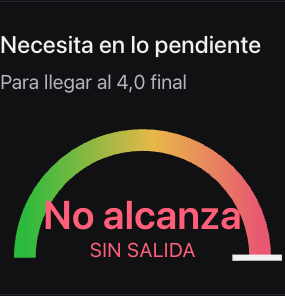
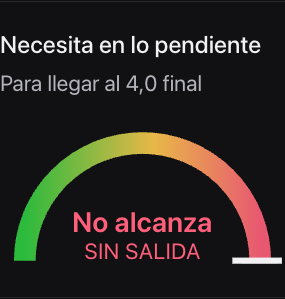
Mantiene legible el estado largo del medidor

diff --git a/styles.css b/styles.css
@@ -3731,8 +3731,8 @@ input.eval-row-input{border-radius:7px;background:var(--bg2);font-weight:550;}
 .alumnos-editorial .panel-alumnos-buscar{margin:16px 0 8px;}
 .alumnos-editorial .panel-alumnos-buscar input{font-family:var(--font-ui);font-size:1rem;background:var(--card);}
 .alumnos-editorial .panel-alumnos-exportar{color:var(--fg2);font-size:.875rem;text-decoration:underline;text-underline-offset:3px;}
-.alumnos-editorial .panel-alumnos-regresar{display:inline-flex;align-items:center;gap:8px;color:var(--fg2);font-size:.875rem;}
-.alumnos-editorial .panel-alumnos-regresar span{font-size:1.5rem;line-height:1;}
+.panel-alumnos-ficha .panel-alumnos-regresar{display:inline-flex;align-items:center;gap:8px;color:var(--fg2);font-size:.875rem;}
+.panel-alumnos-ficha .panel-alumnos-regresar span{font-size:1.5rem;line-height:1;}
 .alumnos-editorial .panel-alumnos-compara{max-width:30rem;margin:0 0 24px;}
 .alumnos-editorial .panel-alumnos-compara button{padding:10px 12px;line-height:1.4;}
 .alumnos-editorial .panel-alumnos-ficha h2{font-size:1.5rem;letter-spacing:-.025em;line-height:1.3;}
@@ -4248,8 +4248,8 @@ input.calc-paso-otro[aria-invalid="true"]{border-color:var(--red);}
 #screen-alumnos .pe-cabecera-nombre{display:block;font-size:1.5rem;font-weight:620;line-height:1.25;overflow-wrap:anywhere;}
 .pe-cabecera-sub[hidden]{display:none;}
 .pe-cabecera-sub{display:block;font-family:var(--font-ui);font-size:.75rem;font-weight:400;letter-spacing:0;line-height:1.5;color:var(--fg2);margin:5px 0 0;}
-.alumnos-editorial .panel-alumnos-regresar{display:inline-flex;align-items:center;gap:8px;min-width:44px;min-height:44px;padding:10px 0;border:0;background:transparent;color:var(--fg2);border-radius:4px;box-shadow:none;}
-.alumnos-editorial .panel-alumnos-regresar:hover{color:var(--fg);}
+.panel-alumnos-ficha .panel-alumnos-regresar{display:inline-flex;align-items:center;gap:8px;min-width:44px;min-height:44px;padding:10px 0;border:0;background:transparent;color:var(--fg2);border-radius:4px;box-shadow:none;}
+.panel-alumnos-ficha .panel-alumnos-regresar:hover{color:var(--fg);}
 .pe-ficha .pe-ramos{gap:24px;margin:4px 0 0;border-bottom:1px solid var(--border);}
 .pe-ficha .pe-ramos button{padding:12px 0;border:0;border-bottom:2px solid transparent;border-radius:0;background:transparent;color:var(--fg2);font-weight:500;overflow-wrap:anywhere;text-align:left;}
 .pe-ficha .pe-ramos button[aria-pressed="true"]{color:var(--fg);border-bottom-color:var(--fg);background:transparent;font-weight:600;}
@@ -4269,8 +4269,8 @@ input.calc-paso-otro[aria-invalid="true"]{border-color:var(--red);}
 .pe-grupo button{border:0;background:transparent;color:var(--fg2);font:inherit;font-size:.75rem;min-width:64px;min-height:44px;padding:8px 16px;border-radius:22px;cursor:pointer;}
 .pe-grupo button[aria-pressed="true"]{background:var(--muted);color:var(--fg);font-weight:600;}
 .pe-ficha button:disabled{opacity:.5;cursor:wait;}
-.pe-ficha button:active,.alumnos-editorial .panel-alumnos-regresar:active{background:var(--muted);}
-.pe-ficha button:focus-visible,.alumnos-editorial .panel-alumnos-regresar:focus-visible{outline:2px solid var(--fg);outline-offset:3px;}
+.pe-ficha button:active,.panel-alumnos-ficha .panel-alumnos-regresar:active{background:var(--muted);}
+.pe-ficha button:focus-visible,.panel-alumnos-ficha .panel-alumnos-regresar:focus-visible{outline:2px solid var(--fg);outline-offset:3px;}
 .pe-ficha .pe-evolucion{--primary:var(--pe-acento);}
 .pe-ficha .pe-evolucion .evolucion-trazado{height:260px;}
 .pe-ficha .evolucion-eje{color:var(--fg2);opacity:1;}
@@ -4305,6 +4305,7 @@ input.calc-paso-otro[aria-invalid="true"]{border-color:var(--red);}
 .pe-necesaria .medidor-nota{display:block;width:100%;max-width:none;height:auto;}
 .pe-medidor-cifra{position:absolute;inset:0;display:flex;flex-direction:column;justify-content:flex-end;align-items:center;padding-bottom:3%;text-align:center;}
 .pe-medidor-cifra strong{font-size:1.25rem;font-weight:600;line-height:1.05;max-width:72%;}
+.pe-medidor-cifra strong.pe-meta-imposible{font-size:.875rem;}
 .pe-medidor-cifra small{font-size:.625rem;line-height:1.15;letter-spacing:.02em;text-transform:uppercase;margin-top:3px;max-width:78%;}
 .pe-peso{padding-top:24px;}
 .pe-peso>div:first-child{display:flex;justify-content:space-between;align-items:baseline;gap:12px;margin-bottom:14px;}

diff --git a/src/marketplace/alumno-editorial.js b/src/marketplace/alumno-editorial.js
@@ -1,4 +1,4 @@
-// Ficha del profesor: presenta las notas compartidas con el mismo motor.
+// Ficha del alumno que consulta el profesor: notas compartidas con el mismo motor.
 function referenciaEvaluacionPrivada(ramo,nota,comp){
   if(!comp||comp.sinSeccion)return null;
   const c=(ramo.categorias||[]).find(c=>(c.notas||[]).some(n=>n.id===nota.id));
@@ -80,7 +80,7 @@ function ramoAlumnoEditorialHTML(al,r,comp,compUltima,seccionUltima,ahora){
         ${grafico||`<p class="pe-sin-grafico" role="status">${ref===null?esc(sinDatos):'Faltan evaluaciones comparables con fecha para mostrar la evolución.'}</p>`}
       </section></section><aside class="pe-contexto"><h3>Este ramo</h3><p class="pe-contexto-sub">${esc(r.sigla||r.nombre)} · ${Number.isInteger(r.seccion)?'Sección '+esc(r.seccion):'Sin sección declarada'}</p>
       <div data-pe-ultima-wrap>${barraUltimaPrivadaHTML(ramo,compUltima,seccionUltima)}</div>
-      <section class="pe-necesaria"><div class="pe-necesaria-texto"><b>Necesita en lo pendiente</b><small>Para llegar al 4,0 final</small></div>${exigencia?`<div class="pe-medidor" role="img" aria-label="${esc(necesaria>7.05?'Con lo pendiente no alcanza para aprobar':'Necesita '+cifraNotaPrivada(nfNecesaria(necesaria))+'. '+exigencia.palabra)}">${htmlMedidorNota(necesaria)}<div class="pe-medidor-cifra" aria-hidden="true" style="color:${exigencia.color}"><strong>${necesaria>7.05?'No alcanza':esc(cifraNotaPrivada(nfNecesaria(necesaria)))}</strong><small>${esc(exigencia.palabra)}</small></div></div>`:'<p class="pe-sub">'+(estado&&estado.pendiente===0?'Todas las notas ingresadas':'Aún no se puede calcular')+'</p>'}</section>
+      <section class="pe-necesaria"><div class="pe-necesaria-texto"><b>Necesita en lo pendiente</b><small>Para llegar al 4,0 final</small></div>${exigencia?`<div class="pe-medidor" role="img" aria-label="${esc(necesaria>7.05?'Con lo pendiente no alcanza para aprobar':'Necesita '+cifraNotaPrivada(nfNecesaria(necesaria))+'. '+exigencia.palabra)}">${htmlMedidorNota(necesaria)}<div class="pe-medidor-cifra" aria-hidden="true" style="color:${exigencia.color}"><strong${necesaria>7.05?' class="pe-meta-imposible"':''}>${necesaria>7.05?'No alcanza':esc(cifraNotaPrivada(nfNecesaria(necesaria)))}</strong><small>${esc(exigencia.palabra)}</small></div></div>`:'<p class="pe-sub">'+(estado&&estado.pendiente===0?'Todas las notas ingresadas':'Aún no se puede calcular')+'</p>'}</section>
       <div class="pe-peso"><div><span>Peso evaluado</span><b>${progreso===null?'—':Math.round(progreso*100)+'%'}</b></div>${progreso===null?'':`<div class="pe-peso-barra" role="img" aria-label="${Math.round(progreso*100)}% del peso evaluable completado"><i style="width:${(progreso*100).toFixed(2)}%"></i></div><div class="pe-barra-extremos" aria-hidden="true"><span>0</span><span>50</span><span>100%</span></div>`}</div>
       <div class="pe-par-notas"><span>Primera nota<b>${notas.length?esc(cifraNotaPrivada(fmt(notas[0].nota))):'—'}</b></span><i aria-hidden="true">→</i><span>Última nota<b>${notas.length?esc(cifraNotaPrivada(fmt(notas.at(-1).nota))):'—'}</b></span></div>
     </aside></div>${evaluacionesPrivadasHTML(ramo,comp,contexto,ahora)}

diff --git a/docs/diseno/ficha-alumno-maqueta-2026-10-30/LEEME.md b/docs/diseno/ficha-alumno-maqueta-2026-10-30/LEEME.md
@@ -77,4 +77,4 @@ Todas las personas, notas y pautas de estas capturas son inventadas. La app usa 
 
 ### Texto grande y estados
 
-[Texto al 200%](app-375-oscuro-texto200.png) · [Cero alumnos](estado-vacio.png) · [Comparación sin SQL](estado-sinSQL.png) · [Error de comparación](estado-errorComparacion.png) · [Error de carga](estado-error.png)
+[Texto al 200%](app-375-oscuro-texto200.png) · [Medidor: no alcanza, texto al 200%](medidor-no-alcanza-texto200.png) · [Cero alumnos](estado-vacio.png) · [Comparación sin SQL](estado-sinSQL.png) · [Error de comparación](estado-errorComparacion.png) · [Error de carga](estado-error.png)
